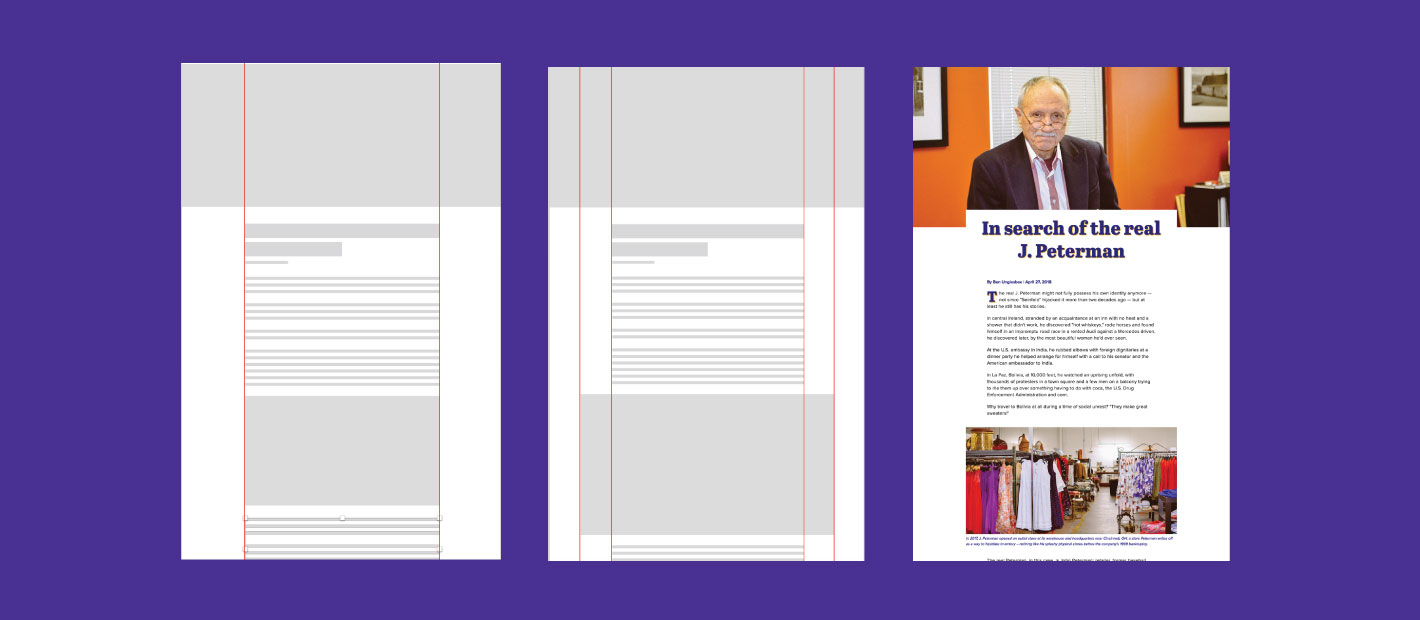
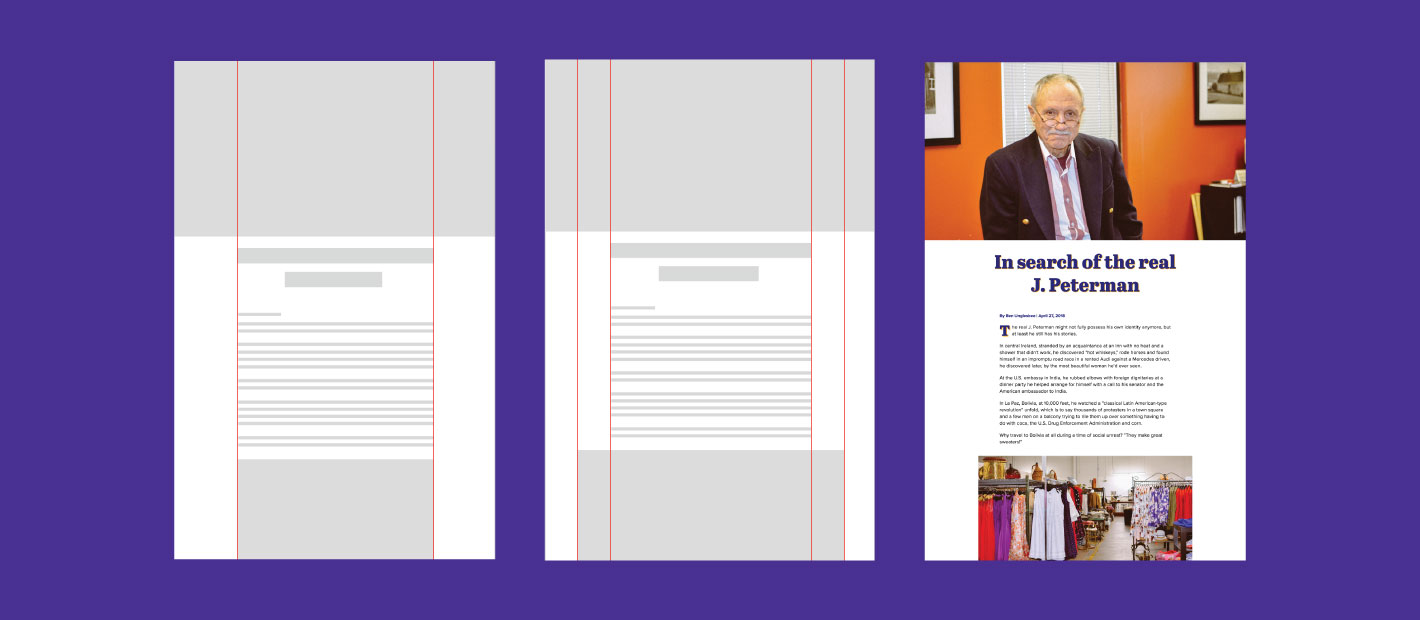
updatesblog

Changed region(s): [[0.1239, 0.0919, 0.8986, 0.9194]]

diff --git a/_posts/2018-04-29-css-grid.md b/_posts/2018-04-29-css-grid.md
@@ -12,14 +12,14 @@ author: Jordan Branch
 
 ### Basic Article Layout
 
-I started with the most generic layout in mind: An article centered on a page. CSS grid can achieve the same results as the famed margin: 0 auto. 
+I started with the most generic layout in mind: an article centered on a page. CSS Grid can achieve the same results as the famed "margin: 0 auto." 
 
 <figure class="image">
     <img src="{{ site.url }}/images/post/2018-04-29-css-grid/demo-1.jpg" alt="Demo 1" style="border: 1px solid #eee;"/>
     <span class="caption">CSS Grid can achieve a basic story layout with ease.</span>
 </figure>
 
-The overall structure is defined at the top level on my “article” element. There, "grid-template-columns" sets the number of columns for the article, as well as each column’s width. In CSS grid, the width is often defined by the [Fr unit](https://alligator.io/css/css-grid-layout-fr-unit/) of measurement, which is a fraction of the available space on a page. 
+The overall structure is defined at the top level on my “article” element. There, "grid-template-columns" sets the number of columns for the article, as well as each column’s width. In CSS Grid, the width is often defined by the [Fr unit](https://alligator.io/css/css-grid-layout-fr-unit/) of measurement, which is a fraction of the available space on a page. 
 
 To center an article on the page, I defined the width of my article and applied 1fr to either side of it: 
 
@@ -30,24 +30,7 @@ article {
 }
 {% endhighlight %}
 
-However, my story’s layout, particularly the header, would require a little more complexity. In the interest of transparency, I’ll share how I achieved the design without css grid. 
-
-For my header, I used some absolute positioning and a little negative margin. I know I know probably two of the most controversial/frustrating/hacky CSS tools out there. But, it worked.
-
-{% highlight css %}
-/* HEADER */
-.header {
-    position: relative;
-}
-.header h1 {
-    left: 50%;
-    margin-left: -400px;
-    position: absolute;
-    width: 800px;
-}
-{% endhighlight %}
-
-To center the article and achieve the image effect in its body, I set the width of the body element and centered it using margin: 0 auto. I set the initial width slightly larger than I wanted for my user’s reading experience. I then added left and right padding to all article elements with the exception of images, to give them the desired enlarged effect. 
+To center the article and achieve the appearance of enlarged images in its body, I set the width of the body element and centered it using margin: 0 auto. I then added left and right padding to all article elements with the exception of images, to give them the desired enlarged effect. 
 
 To achieve this layout using CSS Grid, I knew I would need a layout of at least 5 columns.
 
@@ -56,19 +39,14 @@ article {
     display: grid;
     grid-template-columns: 1fr 1fr 700px 1fr 1fr;
 }
-{% endhighlight %}
-
-The middle column accommodates the body of my article. The outer two units serve to evenly center the article. The first fr on either side of the body copy would allow for image expansion later in the article. 
-
-For starters, I centered my article. I defined its start column at 3 (the column with a width of 700px). This gave me the same effect as margin: 0 auto in my template’s framework.
-
-{% highlight css %}
 article > * {
     grid-column: 3; 
 }
 {% endhighlight %}
 
-Unlike margin, css grid allows developers to use the negative space it creates. The ability to use the negative space informed how I would achieve both of my image treatments. 
+The middle column accommodates the body of my article. The outer two units evenly centered it and the grid start column of 3 told the article elements to live in the third column. This gave me the same effect as margin: 0 auto in my template’s framework.
+
+The first fr on either side of the body copy would allow for image expansion later in the article. Unlike margin, CSS Grid allows developers to use the negative space it creates. The ability to use the negative space informed how I would achieve both of my image treatments. 
 
 The header image needed to go full width and the body images should feel enlarged against the text of the story. I again used grid column, but this time I defined the start column and the number of columns the asset should span. 
 
@@ -90,9 +68,28 @@ article > .header-img {
     <span class="caption">My design required a more complex grid to acommodate the header image style.</span>
 </figure>
 
-With my basic article complete, I moved on to the unique design of the header. This part of the project lead me to use "grid-row." For my design, the image and the title of the article in my story needed to be on the same row. To do this, I defined the "grid-row" of my header image as 1. I did the same for my header text. 
+With my basic article complete, I moved on to the design of the header, which would require a little more complexity.
 
-Because the image was larger than my text and therefore determined the height of my row, I used the align-self feature to bring the text down to the end of the row (or bottom of the image). Final code:
+In the interest of transparency, I’ll share how I achieved positioning the header text half on and half off the header image without CSS Grid using absolute positioning and negative margin. 
+
+I know, I know probably two of the most controversial/frustrating/hacky CSS tools out there. But, [it worked](https://www.sitepoint.com/css-center-position-absolute-div/).
+
+{% highlight css %}
+/* HEADER */
+.header {
+    position: relative;
+}
+.header h1 {
+    left: 50%;
+    margin-left: -400px;
+    position: absolute;
+    width: 800px;
+}
+{% endhighlight %}
+
+CSS grid gave me another option for a similar design. To put the image and the title of my article on the same row, I defined the "grid-row" of my header image as 1. I did the same for my header text. 
+
+Because the image was larger than my text and therefore determined the height of my row, I used the align-self feature to bring the text down to the end of the row (or bottom of the image). This didn't fully capture my original design but came close.
 
 {% highlight css %}
 article > .header-img {
@@ -108,7 +105,7 @@ article > .header-text {
 <div class="header-text">
         <h1>In search of the real <i>real</i> J. Peterman</h1>
         <span class="byline"> April 16, 2018 | By Krysti Shallenberger</span>
-  	</div>
+    </div>
 </article>
 {% endhighlight %}
 
@@ -122,29 +119,31 @@ article {
 }
 {% endhighlight %}
 
-The header-text div now started at the third column and spanned three columns to encompass the 30px of additional space on either side of the body. This allowed me to give the dive a left and right padding of 30px while keeping its text lined up with the article, which still lived in the center column.
+The header-text div now started at the third column and spanned three columns to encompass the 30px of additional space on either side of the body. This allowed me to give the header text a left and right padding of 30px while keeping its text lined up with the article, which still lived in the center column.
 
 ### Benefits and Considerations
 
-Features made easier by the grid :
+Features made easier by the Grid:
 
-- Full-width and enlarged images are made much easier with css grid. Without the grid, the developer would need to use negative margin, my padding trick or break the container div altogether.
+<ul>
+<li>Full-width and enlarged images are made much easier with CSS Grid. Without the Grid, the developer would need to use negative margin, my padding trick or break the container div altogether.</li>
 
-- Centering the article with css grid is just as easy as margin: 0 auto; and allows you to structure the whole article using the same framework, resulting in cleaner code. 
+<li>Centering the article with CSS Grid is just as easy as margin: 0 auto; and allows you to structure the whole article using the same framework, resulting in cleaner code. </li>
 
-- CSS grid allows you to use the negative space that other grids let go to waste. 
+<li>CSS Grid allows you to use the negative space that other grids let go to waste. </li>
+</ul>
 
-The benefits noted, there were a few design choices I could not achieve with css grid. I couldn't replicate the appearance of my pull quotes, because css grid does not allow for text wrap. I was also unable to position my header text half on and half off the photo and have the text maintain its position on resize. (Drop me a line if I am missing something in CSS grid rows docs: jordane.branch@gmail.com).
+The benefits noted, there were a few design choices I could not achieve with CSS Grid. I couldn't replicate the appearance of my pull quotes, because CSS Grid does not allow for text wrap. I was also unable to position my header text half on and half off the photo and have the text maintain its position on resize.
 
-There are also some accessibility concerns with the capabilities of CSS grid, go [here](https://developer.mozilla.org/en-US/docs/Web/CSS/CSS_Grid_Layout/CSS_Grid_Layout_and_Accessibility) for more information.
+There are also some accessibility concerns with the capabilities of CSS Grid, go [here](https://developer.mozilla.org/en-US/docs/Web/CSS/CSS_Grid_Layout/CSS_Grid_Layout_and_Accessibility) for more information.
 
 ### Support
 
-CSS grid is pretty [well supported](https://caniuse.com/#feat=css-grid) at this point. However, depending on your project specs and what your company supports back to, you might want to provide a fallback. 
+CSS Grid is pretty [well supported](https://caniuse.com/#feat=css-grid) at this point. However, depending on your project specs and what your company supports back to, you might want to provide a fallback. 
 
-As my company is in B2B media, we provide strong support for IE as many of our readers are in business or the government sector. I would need to provide a basic alternative structure. 
+At Industry Dive, we provide strong support for IE as many of our readers are in business or the government sector. I would need to provide a basic alternative structure. 
 
-You can do that by checking if the browser supports grid. As Brenda Storer's pointed out in her presentation, this is reliable, because the support for flex grid aligns up with the [support for feature testing](https://caniuse.com/#feat=css-featurequeries). 
+You can do that by checking if the browser supports Grid. As Brenda Storer's pointed out in her presentation, this is reliable, because the support for flex grid aligns with the [support for feature testing](https://caniuse.com/#feat=css-featurequeries). 
 
 {% highlight css %}
 @supports (display: grid) {
@@ -152,4 +151,4 @@ You can do that by checking if the browser supports grid. As Brenda Storer's poi
 }
 {% endhighlight %}
 
-Maybe a small sector of our readers won’t see my fancy pants design, but I think I’m willing to take that risk. Overall, CSS grid was a successful article-building tool I will use in the future.
+Maybe a small sector of our readers won’t see my fancy pants design, but I think I’m willing to take that risk. Overall, CSS Grid was a successful article-building tool I will use in the future.
